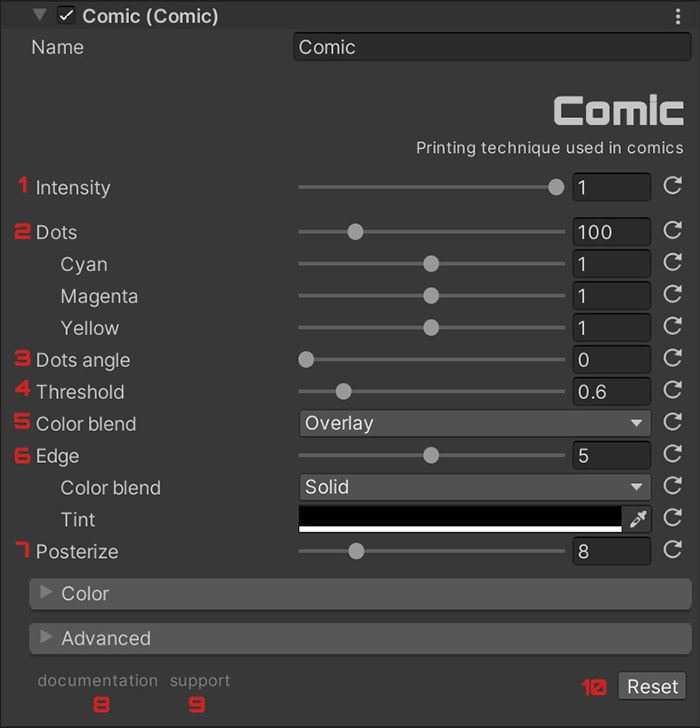
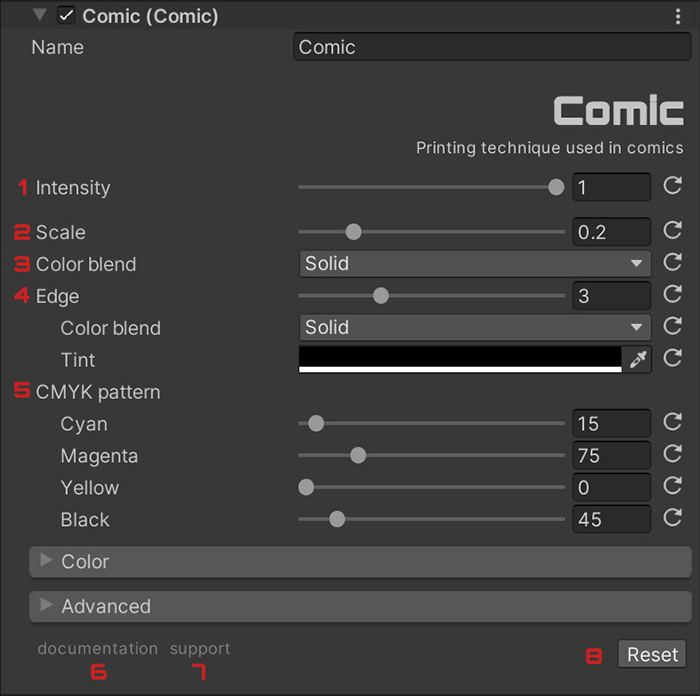
Comic video.

diff --git a/docs/store/artistic.html b/docs/store/artistic.html
@@ -581,7 +581,7 @@
 <br><br>
 
 <div style="position: relative; padding-bottom: 56.25%; height: 0; overflow: hidden;">
-  <iframe src="https://www.youtube.com/embed/n0VYyeMYUS4" style="position: absolute; top: 0; left: 0; width: 100%; height: 100%; border:0;" allowfullscreen title="YouTube Video"></iframe>
+  <iframe src="https://www.youtube.com/embed/W4t0Cnk1Q0U" style="position: absolute; top: 0; left: 0; width: 100%; height: 100%; border:0;" allowfullscreen title="YouTube Video"></iframe>
 </div>
 
 
@@ -606,7 +606,7 @@
 &nbsp;
 
 <p>With &lsquo;<strong>Intensity</strong>&rsquo; (<em>1</em>) you can control the intensity of the effect. If it is 0, the effect will not be active.</p>
-<p>Finally, if you click on &lsquo;<strong>documentation</strong>&rsquo; (<em>8</em>) you will go to the online documentation. If you need support, you can send me an email to &lsquo;<em>frokongames@gmail.com</em>&rsquo; or you can click on &lsquo;<strong>support</strong>&rsquo; (<em>9</em>). If you need to reset all the effect values, click on &lsquo;<strong>Reset</strong>&rsquo; (<em>10</em>).</p>
+<p>Finally, if you click on &lsquo;<strong>documentation</strong>&rsquo; (<em>6</em>) you will go to the online documentation. If you need support, you can send me an email to &lsquo;<em>frokongames@gmail.com</em>&rsquo; or you can click on &lsquo;<strong>support</strong>&rsquo; (<em>7</em>). If you need to reset all the effect values, click on &lsquo;<strong>Reset</strong>&rsquo; (<em>8</em>).</p>
 <hr>
 <br><br>
 <h2 id="misc">Misc</h2>

diff --git a/content/store/artistic/index.md b/content/store/artistic/index.md
@@ -255,7 +255,7 @@ Finally, if you click on '**documentation**' (_7_) you will go to the online doc
 # {#comic}
 {{< rawhtml >}}<br><br>{{< /rawhtml >}}
 
-{{< youtube n0VYyeMYUS4 >}}
+{{< youtube W4t0Cnk1Q0U >}}
 
 {{< asset-buttons demo="https://fronkongames.github.io/demos-artistic/comic/" >}}
 
@@ -265,7 +265,7 @@ Simulates the printing technique used in comics and newspapers. Once installed, 
 
 With '**Intensity**' (_1_) you can control the intensity of the effect. If it is 0, the effect will not be active.
 
-Finally, if you click on '**documentation**' (_8_) you will go to the online documentation. If you need support, you can send me an email to '_frokongames@gmail.com_' or you can click on '**support**' (_9_). If you need to reset all the effect values, click on '**Reset**' (_10_).
+Finally, if you click on '**documentation**' (_6_) you will go to the online documentation. If you need support, you can send me an email to '_frokongames@gmail.com_' or you can click on '**support**' (_7_). If you need to reset all the effect values, click on '**Reset**' (_8_).
 
 ---
 {{< rawhtml >}}<br><br>{{< /rawhtml >}}
